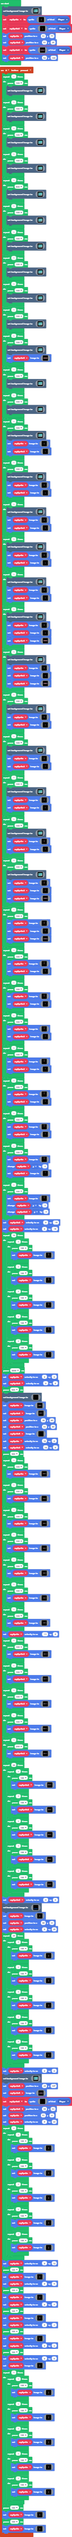
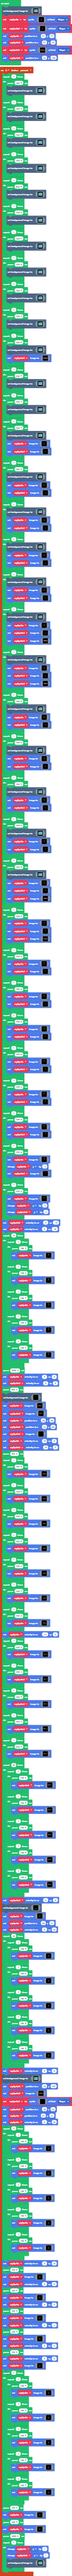
Update main.blocks, main.ts

diff --git a/main.ts b/main.ts
@@ -9682,7 +9682,7 @@ controller.A.onEvent(ControllerButtonEvent.Pressed, function () {
         ....................
         `)
     mySprite.setPosition(80, 0)
-    mySprite.setVelocity(0, 25)
+    mySprite.setVelocity(0, 22)
     for (let index = 0; index < 20; index++) {
         for (let index = 0; index < 1; index++) {
             pause(100)
@@ -9720,9 +9720,9 @@ controller.A.onEvent(ControllerButtonEvent.Pressed, function () {
                 ....................
                 ....................
                 ......bbbbbbbbb.....
-                ......bbbbbbbbb.....
-                ..ffffbbbfffbbbffff.
-                ......bbbbbbbbb.....
+                ......bbbfbbbbb.fff.
+                ..ffffbbbbfbbbbffff.
+                ..fff.bbbbbfbbb.....
                 ......bbbbfbbbb.....
                 ......bbbbfbbbb.....
                 ......1111f1111.....
@@ -9845,9 +9845,9 @@ controller.A.onEvent(ControllerButtonEvent.Pressed, function () {
                 ....................
                 ....................
                 ......bbbbbbbbb.....
-                ......bbbbbbbbb.....
-                ..ffffbbbfffbbbffff.
-                ......bbbbbbbbb.....
+                ......bbbfbbbbb.fff.
+                ..ffffbbbbfbbbbffff.
+                ..fff.bbbbbfbbb.....
                 ......bbbbfbbbb.....
                 ......bbbbfbbbb.....
                 ......1111f1111.....
@@ -9970,9 +9970,9 @@ controller.A.onEvent(ControllerButtonEvent.Pressed, function () {
                 ....................
                 ....................
                 ......bbbbbbbbb.....
-                ......bbbbbbbbb.....
-                ..ffffbbbfffbbbffff.
-                ......bbbbbbbbb.....
+                ......bbbfbbbbb.fff.
+                ..ffffbbbbfbbbbffff.
+                ..fff.bbbbbfbbb.....
                 ......bbbbfbbbb.....
                 ......bbbbfbbbb.....
                 ......1111f1111.....
@@ -12588,6 +12588,133 @@ controller.A.onEvent(ControllerButtonEvent.Pressed, function () {
         ....................
         ....................
         `)
+    pause(2000)
+    for (let index = 0; index < 1; index++) {
+        mySprite.y += 1
+        mySprite3.y += 1
+        scene.setBackgroundImage(img`
[120 lines of base64/hex data omitted]
+            `)
+    }
 })
 let mySprite3: Sprite = null
 let mySprite5: Sprite = null
